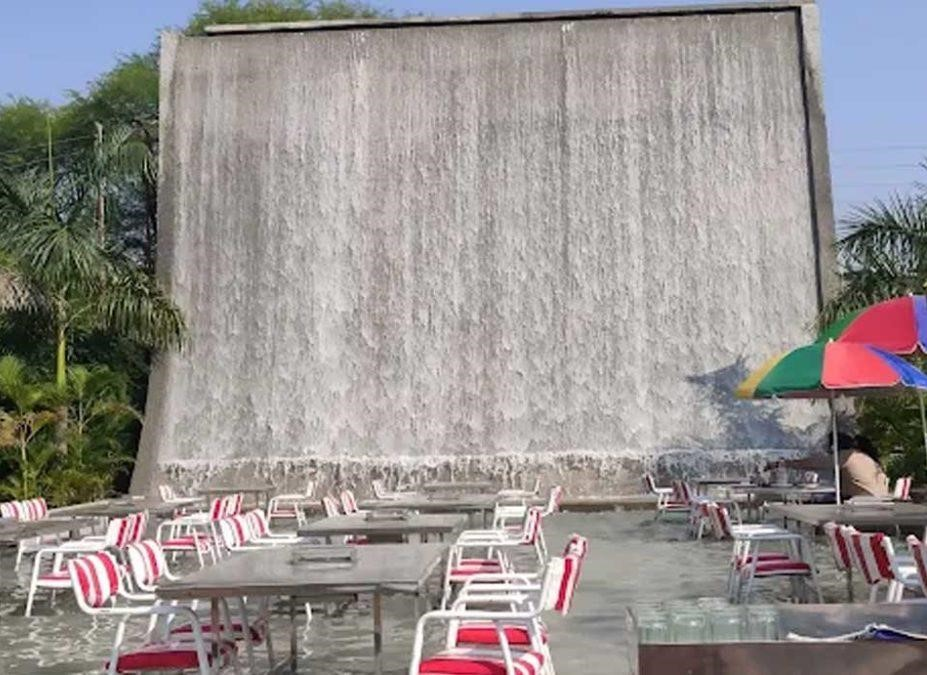
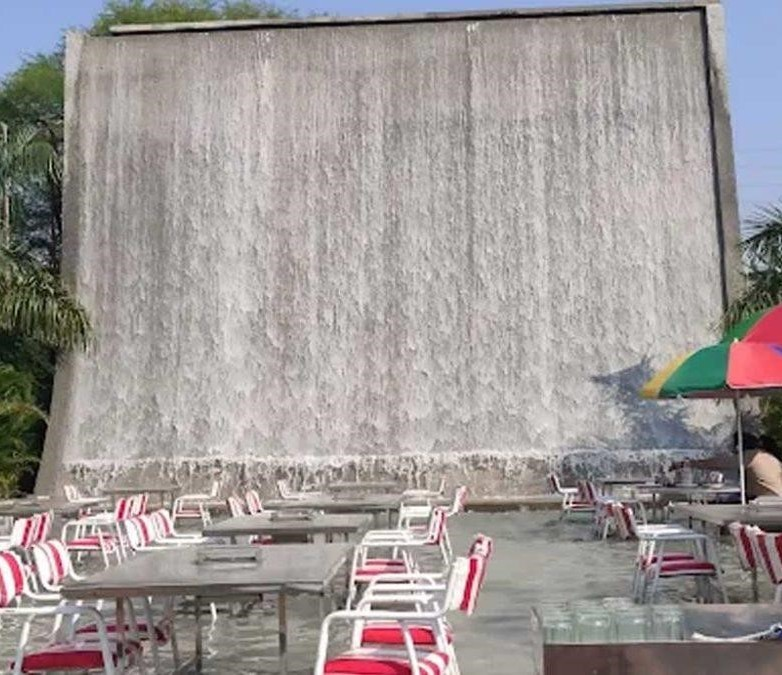
food section

diff --git a/project/style.css b/project/style.css
@@ -55,18 +55,34 @@ body {
 }
 
 .box1{
-    background-color: aquamarine;
-   height: 90%;
+    /* background-color: aquamarine; */
+   height: 85%;
     width: 90%;
-    display: flex;
+    display: inline-flex;
     margin: 5px;
     float: left;
 }
 
 .outerbox{
-    width: 250px;
-    height: 250px;
+    width: 200px;
+    height: 200px;
     margin: 10px;
     background-color: aquamarine;
+    border-radius: 10%;
+    font-size: medium;
+    text-align: center;
+    font-family:gelasio;
 
+} 
+img{
+    height: 170px;
+    width: 170px;
+   margin: 5px;
+   margin-left: 10px;
+   border-radius: 5%;
+}
+
+ .outerbox:hover{
+   background-color: rgb(127, 206, 194);
+ transform: scale(1.1);
 }

diff --git a/project/index.html b/project/index.html
@@ -5,6 +5,9 @@
     <meta name="viewport" content="width=device-width, initial-scale=1.0">
     <title>YummyTo</title>
     <link rel="stylesheet" href="style.css">
+    <link rel="preconnect" href="https://fonts.googleapis.com">
+<link rel="preconnect" href="https://fonts.gstatic.com" crossorigin>
+<link href="https://fonts.googleapis.com/css2?family=Gelasio:ital,wght@0,400..700;1,400..700&display=swap" rel="stylesheet">
 </head>
 <body>
     <header>
@@ -29,11 +32,21 @@
     <main>
         <div id="restaurants">
             <h2>Restaurants</h2>
-         <div class="outerbox"><div class="box1"><img src="images/waterfall.jpg"></div><p>The Waterfall Restaurant</p></div>
-         <div class="outerbox" style="float: left;"><div class="box1"><img src="images/littlemonk.webp"></div> Little Monk Restaurant</div>
-         <div class="outerbox" style="float: left;"><div class="box1"><img src="images/madhuram.webp"></div>Madhuram Sandwich</div>
-         <div class="outerbox" style="float: left;"><div class="box1"><img src="images/coriander.webp"></div>Coriander Leaf Restaurant</div>
-         <div class="outerbox" style="float: left;"><div class="box1"><img src="images/adams.webp"></div>Adam's Ale</div>
+         <div class="outerbox" style="float: left;"><div class="box1"><img src="images/waterfall.jpg"></div><p class="para">The Waterfall Restaurant</p></div>
+         <div class="outerbox" style="float: left;"><div class="box1"><img src="images/littlemonk.webp"></div><p class="para"> Little Monk Restaurant</p></div>
+         <div class="outerbox" style="float: left;"><div class="box1"><img src="images/madhuram.webp"></div><p class="para">Madhuram Sandwich</p></div>
+         <div class="outerbox" style="float: left;"><div class="box1"><img src="images/coriander.webp"></div><p class="para">Coriander Leaf Restaurant</p></div>
+         <div class="outerbox" style="float: left;"><div class="box1"><img src="images/adams.webp"></div><p class="para">Adam's Ale</p></div>
+        </div>
+
+        <div id="food">
+            <h2>Search by Foods</h2>
+         <div class="outerbox" style="float: left;"><div class="box1"><img src="images/indian.jfif"></div><p class="para">The Waterfall Restaurant</p></div>
+         <div class="outerbox" style="float: left;"><div class="box1"><img src="images/chinese.webp"></div><p class="para"> Little Monk Restaurant</p></div>
+         <div class="outerbox" style="float: left;"><div class="box1"><img src="images/italian.webp"></div><p class="para">Madhuram Sandwich</p></div>
+         <div class="outerbox" style="float: left;"><div class="box1"><img src="images/"></div><p class="para">Coriander Leaf Restaurant</p></div>
+         <div class="outerbox" style="float: left;"><div class="box1"><img src="images/"></div><p class="para">Adam's Ale</p></div>
+        
         </div>
     </main>
     <footer></footer>